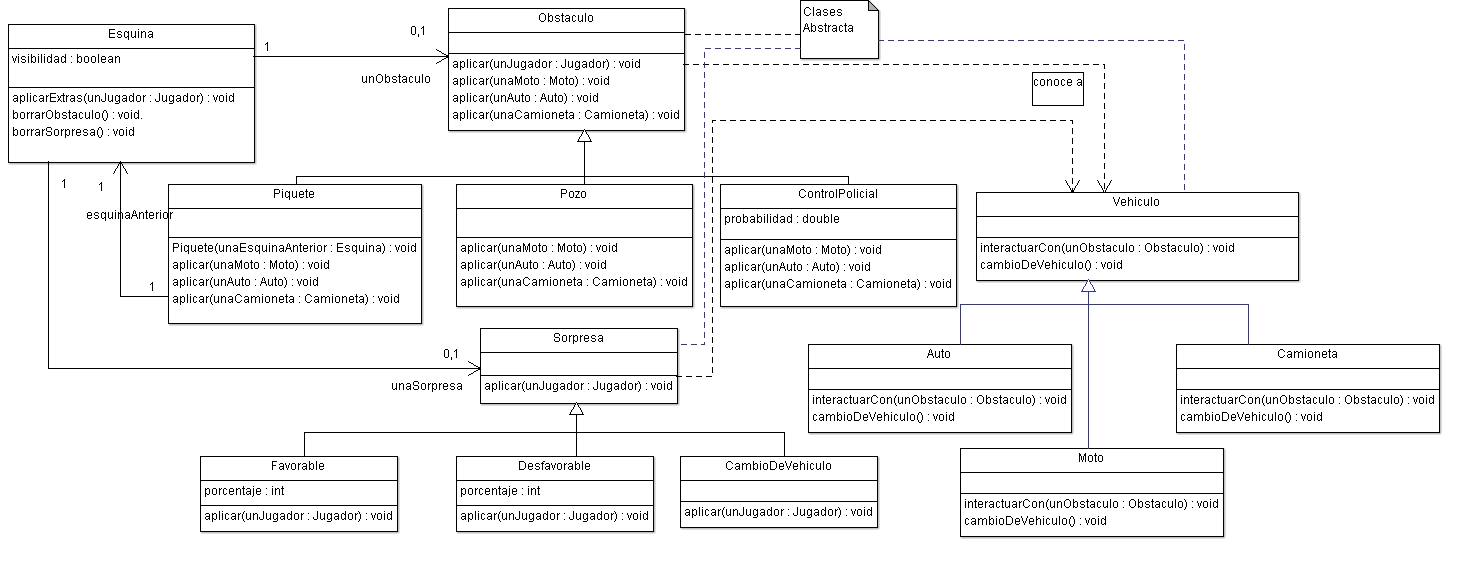
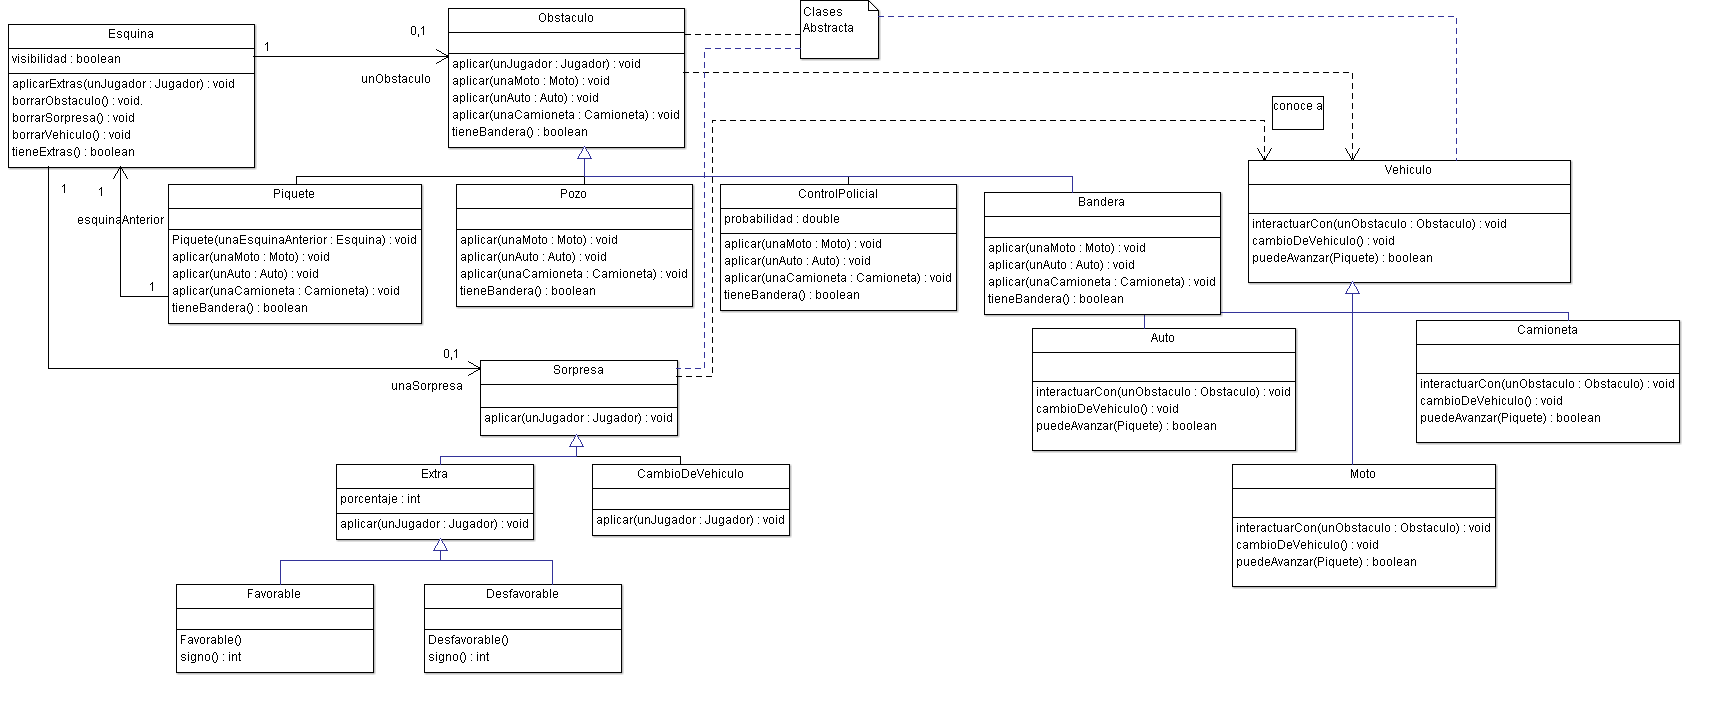
cambios: diagramas de clases          metodos publicos por abstractos          se borro el metodo setearEsquinaAnterior de la clase Obstaculo e hijos          se borro el metodo eliminarSorpresa de la clase Esquina.

diff --git a/GPSChallenge/src/fiuba/algo3/modelo/vehiculo/Vehiculo.java b/GPSChallenge/src/fiuba/algo3/modelo/vehiculo/Vehiculo.java
@@ -1,7 +1,7 @@
 package fiuba.algo3.modelo.vehiculo;
 
 import org.w3c.dom.Document;
-import org.w3c.dom.Element;
+
 import org.w3c.dom.Node;
 
 import fiuba.algo3.modelo.Esquina;
@@ -101,14 +101,7 @@ public abstract class Vehiculo extends ObjetoObservable {
 
 	public abstract boolean puedeAvanzar(Piquete piquete);
 
-	public Node toXml(Document doc) {
-		Element xmlElement = doc.createElement("Vehiculo");
-		Posicion unaPosicion = this.esquinaActual.devolverPosicion();
-		
-		xmlElement.setAttribute("Movimientos_permitidos", String.valueOf(this.movimientosPermitidos));
-		xmlElement.appendChild(unaPosicion.toXml(doc));
-		return xmlElement;
-	}
+	public abstract Node toXml(Document doc);
 
 	public abstract void actualizar();
 

diff --git a/GPSChallenge/src/fiuba/algo3/modelo/obstaculo/ControlPolicial.java b/GPSChallenge/src/fiuba/algo3/modelo/obstaculo/ControlPolicial.java
@@ -3,8 +3,6 @@ package fiuba.algo3.modelo.obstaculo;
 import org.w3c.dom.Document;
 import org.w3c.dom.Element;
 import org.w3c.dom.Node;
-
-import fiuba.algo3.modelo.Esquina;
 import fiuba.algo3.modelo.randomizador.RandomizadorImplementacion;
 import fiuba.algo3.modelo.vehiculo.Auto;
 import fiuba.algo3.modelo.vehiculo.Camioneta;
@@ -32,11 +30,6 @@ public class ControlPolicial extends Obstaculo {
 	public void aplicar(Camioneta unaCamioneta) {
 		if (this.randomizador.obtenerNumeroRandom() <= 0.3)
 			unaCamioneta.aumentarMovimientosDelJugador(3);
-	}
-
-	@Override
-	public void setearEsquinaAnterior(Esquina esquinaAnterior) {
-		
 	}
 
 	@Override

diff --git a/GPSChallenge/src/fiuba/algo3/modelo/obstaculo/Obstaculo.java b/GPSChallenge/src/fiuba/algo3/modelo/obstaculo/Obstaculo.java
@@ -4,8 +4,6 @@ import java.util.Observable;
 
 import org.w3c.dom.Document;
 import org.w3c.dom.Node;
-
-import fiuba.algo3.modelo.Esquina;
 import fiuba.algo3.modelo.Jugador;
 import fiuba.algo3.modelo.vehiculo.Auto;
 import fiuba.algo3.modelo.vehiculo.Camioneta;
@@ -23,8 +21,6 @@ public abstract class Obstaculo extends Observable {
 	public abstract void aplicar(Moto unaMoto);
 
 	public abstract void aplicar(Camioneta unaCamioneta);
-	
-	public abstract void setearEsquinaAnterior(Esquina esquinaAnterior);
 
 	public abstract boolean puedeAvanzar(Vehiculo vehiculo);
 

diff --git a/GPSChallenge/src/fiuba/algo3/modelo/obstaculo/Pozo.java b/GPSChallenge/src/fiuba/algo3/modelo/obstaculo/Pozo.java
@@ -3,8 +3,6 @@ package fiuba.algo3.modelo.obstaculo;
 import org.w3c.dom.Document;
 import org.w3c.dom.Element;
 import org.w3c.dom.Node;
-
-import fiuba.algo3.modelo.Esquina;
 import fiuba.algo3.modelo.vehiculo.Auto;
 import fiuba.algo3.modelo.vehiculo.Camioneta;
 import fiuba.algo3.modelo.vehiculo.Moto;
@@ -22,10 +20,6 @@ public class Pozo extends Obstaculo {
 	
 	public void aplicar (Camioneta unaCamioneta){
 		unaCamioneta.aumentarMovimientosDelJugador(0);
-	}
-
-	@Override
-	public void setearEsquinaAnterior(Esquina esquinaAnterior) {		
 	}
 	
 	@Override

diff --git a/GPSChallenge/src/fiuba/algo3/modelo/obstaculo/Piquete.java b/GPSChallenge/src/fiuba/algo3/modelo/obstaculo/Piquete.java
@@ -3,8 +3,6 @@ package fiuba.algo3.modelo.obstaculo;
 import org.w3c.dom.Document;
 import org.w3c.dom.Element;
 import org.w3c.dom.Node;
-
-import fiuba.algo3.modelo.Esquina;
 import fiuba.algo3.modelo.vehiculo.Auto;
 import fiuba.algo3.modelo.vehiculo.Camioneta;
 import fiuba.algo3.modelo.vehiculo.Moto;
@@ -39,9 +37,4 @@ public class Piquete extends Obstaculo {
 	@Override
 	public void aplicar(Camioneta unaCamioneta) {		
 	}
-
-	@Override
-	public void setearEsquinaAnterior(Esquina esquinaAnterior) {		
-	}
-
 }

diff --git a/GPSChallenge/src/fiuba/algo3/modelo/Esquina.java b/GPSChallenge/src/fiuba/algo3/modelo/Esquina.java
@@ -46,15 +46,11 @@ public class Esquina {
 	public void aplicarExtras(Jugador unJugador) throws ExcepcionJugadorYaAsignadoAlVehiculo {
 		if (this.unaSorpresa != null) {
 			this.unaSorpresa.aplicar(unJugador);
-			this.elimnarSorpresa();
+			this.borrarSorpresa();
 		}
 		if (this.unObstaculo != null) {
 			this.unObstaculo.aplicar(unJugador);
 		}
-	}
-
-	private void elimnarSorpresa() {
-		this.unaSorpresa = null;
 	}
 
 	public void setearSorpresa(Sorpresa sorpresa) {

diff --git a/GPSChallenge/src/fiuba/algo3/modelo/obstaculo/Bandera.java b/GPSChallenge/src/fiuba/algo3/modelo/obstaculo/Bandera.java
@@ -26,11 +26,7 @@ public class Bandera extends Obstaculo {
 	public void aplicar(Camioneta unaCamioneta) {
 		unaCamioneta.jugadorGano();		
 	}
-
-	@Override
-	public void setearEsquinaAnterior(Esquina esquinaAnterior) {		
-	}
-
+	
 	@Override
 	public boolean puedeAvanzar(Vehiculo vehiculo) {
 		return true;

diff --git a/GPSChallenge/src/fiuba/algo3/modelo/sorpresa/Sorpresa.java b/GPSChallenge/src/fiuba/algo3/modelo/sorpresa/Sorpresa.java
@@ -8,7 +8,7 @@ import fiuba.algo3.modelo.excepcion.ExcepcionJugadorYaAsignadoAlVehiculo;
 
 public interface Sorpresa {
 
-	public void aplicar(Jugador unJugador)
+	public abstract void aplicar(Jugador unJugador)
 			throws ExcepcionJugadorYaAsignadoAlVehiculo;
 
 	public abstract Node toXml(Document doc);
